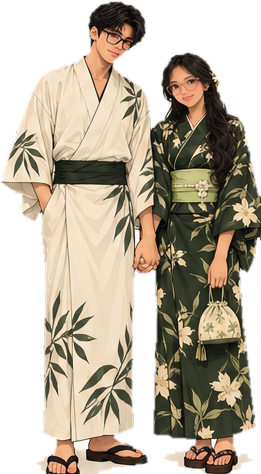
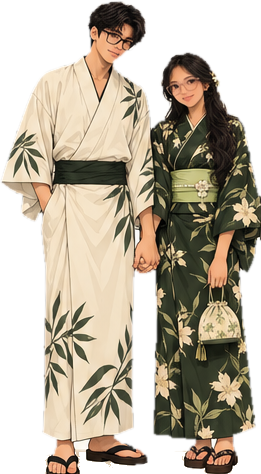
Ending: purple festival night with rich fireworks, couple on the ridge
- Rewrite the finale shader after the reference: indigo-purple sky, stars,
  firework-lit clouds and mountain ridges; rockets on wavy trails bursting into
  golden chrysanthemums, magenta/violet peonies, curly cyan willows, yellow rings
- The holding-hands pose stands on the ridge, edge-lit in cycling firework colours
- Purple CSS fallback; clean ground-shadow specks from the cutout

Claude-Session: https://claude.ai/code/session_01JoikXF9WBmpwATLREeMvZ4

diff --git a/app/globals.css b/app/globals.css
@@ -122,10 +122,13 @@ button:hover, button:focus-visible { transform: scale(1.06); outline: none; }
 .finale-layer { position: fixed; inset: 0; z-index: 4; opacity: 0; visibility: hidden; pointer-events: none; }
 .finale { position: absolute; inset: 0; overflow: hidden; }
 .finale-canvas, .finale-fallback { position: absolute; inset: 0; width: 100%; height: 100%; }
-.finale-fallback { background: linear-gradient(#081404, #183410 50%, #e6dcb4 61.5%, #0b1a05 62%); }
-.duo { position: absolute; left: 0; right: 0; margin: 0 auto; bottom: 0; width: min(86vw, 440px); opacity: 0;
-  -webkit-mask-image: linear-gradient(#000 82%, transparent); mask-image: linear-gradient(#000 82%, transparent);
-  filter: drop-shadow(0 0 2px rgba(255, 220, 160, 0.9)) drop-shadow(0 0 22px rgba(255, 200, 120, 0.45)); }
+.finale-fallback { background: radial-gradient(40% 25% at 50% 40%, rgba(255, 190, 90, 0.35), transparent 70%), radial-gradient(25% 18% at 20% 20%, rgba(255, 90, 216, 0.3), transparent 70%), radial-gradient(25% 18% at 80% 25%, rgba(95, 242, 238, 0.28), transparent 70%), linear-gradient(#06051a, #2a1440 80%, #0a0612 88%); }
+/* firework light on the couple, cycling through the burst colours */
+@property --fw { syntax: "<color>"; inherits: false; initial-value: #ff5ad8; }
+@keyframes fwlight { 0%, 100% { --fw: #ff5ad8; } 33% { --fw: #5ff2ee; } 66% { --fw: #ffc45a; } }
+.duo { position: absolute; left: 0; right: 0; margin: 0 auto; bottom: 8svh; height: min(38svh, 340px); width: auto; opacity: 0;
+  filter: drop-shadow(0 0 1.5px var(--fw)) drop-shadow(0 0 20px color-mix(in srgb, var(--fw) 45%, transparent)) brightness(0.92);
+  animation: fwlight 6s ease-in-out infinite; }
 .finale-caption { position: absolute; top: 14svh; left: 0; right: 0; padding: 0 1.5rem; text-align: center; font-size: clamp(2.2rem, 10vw, 4.5rem); font-weight: 800; letter-spacing: -0.05em; line-height: 0.95; }
 
 

diff --git a/components/Finale.tsx b/components/Finale.tsx
@@ -7,10 +7,10 @@ import { scene } from "@/lib/scene";
 import { useReducedMotion } from "@/lib/useReducedMotion";
 import KineticLine from "./KineticLine";
 
-// The two of them in an embrace against the fireworks (from the character sheet).
+// The two of them holding hands on the ridge, lit by the fireworks.
 function Couple() {
   // eslint-disable-next-line @next/next/no-img-element
-  return <img className="duo" src="/characters/embrace.png" alt="" draggable={false} />;
+  return <img className="duo" src="/characters/together.png" alt="" draggable={false} />;
 }
 
 // Festival-night scene. Fade-in is driven by scroll (scene.finale); fireworks run on time.
